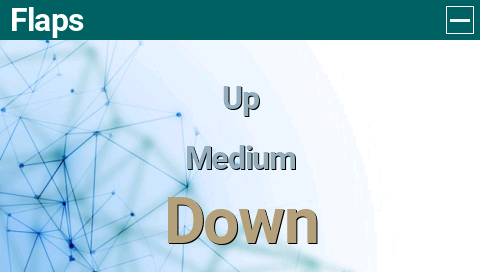
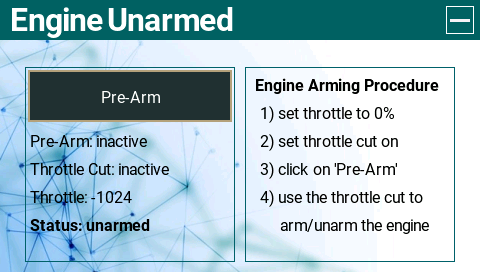
fix: move pre-existing images into folders, fix edgetx-goodies

diff --git a/README.md b/README.md
@@ -34,7 +34,7 @@ Display ExpressLRS LinkStats telemetry as well as common Betaflight and iNav fli
 - Display **min & max** indicator
 - **Post flight summary** (auto-detection end-of-flight)
 
-<a href="https://github.com/offer-shmuely/edgetx-x10-widgets/wiki/els_rf"> 
+<a href="https://github.com/offer-shmuely/edgetx-x10-widgets/wiki/els_rf">
     <img src="ASSETS/expresslrs-rf-telemetry-widget-for-fixed-wing-heli/screenshot-1.gif" width="400">
 </a>
 
@@ -53,7 +53,7 @@ An RSSI-based quad finder using ELRS/CRSF telemetry.
 - TXBatt for transmitter battery voltage and percentage
 - Battery for any battery sensor
 
-<a href="https://github.com/SpiderFI"> 
+<a href="https://github.com/SpiderFI">
     <img src="ASSETS/expresslrs-signal-battery-widgets-for-colorlcd/screenshot-1.jpg" width="400">
 </a>
 
@@ -221,9 +221,9 @@ View fullscreen images with layout information or photos, cycle through them and
 Some widgets, themes and other scripts for EdgeTX<br/>
 <a href="https://github.com/MadMonkey87/EdgeTX-Goodies">
 <img src="ASSETS/edgetx-goodies/screenshot-1.png"  width="250">
+<img src="ASSETS/edgetx-goodies/screenshot-2.png"  width="250">
 <img src="ASSETS/edgetx-goodies/screenshot-3.png"  width="250">
-<img src="ASSETS/edgetx-goodies/screenshot-5.png"  width="250">
-<img src="https://github.com/MadMonkey87/EdgeTX-Goodies/raw/main/SCREENSHOTS/screenshot_tx16s_22-08-09_19-54-00.png"  width="250">
+<img src="ASSETS/edgetx-goodies/screenshot-4.png"  width="250">
 </a>
 
 <br/>
@@ -285,13 +285,13 @@ Scripts to use with Spektrum Receivers. It has easy to install zip files version
 Nice presentation of log file on the field<br>
 no computer needed for logs anymore.
 
-<a href="https://github.com/offer-shmuely/edgetx-x10-scripts/wiki/LogViewer"> 
+<a href="https://github.com/offer-shmuely/edgetx-x10-scripts/wiki/LogViewer">
     <img src="ASSETS/log-viewer/screenshot-1.gif" width="480">
 </a>
 
 **Selecting files & columns**
 
-<a href="https://github.com/offer-shmuely/edgetx-x10-scripts/wiki/LogViewer"> 
+<a href="https://github.com/offer-shmuely/edgetx-x10-scripts/wiki/LogViewer">
     <img src="ASSETS/log-viewer/screenshot-3.png" width="200">
     <img src="ASSETS/log-viewer/screenshot-5.png" width="200">
     <img src="ASSETS/log-viewer/screenshot-7.png" width="200">
@@ -326,7 +326,7 @@ on an EdgeTX B&W or color radio.
 
 A tool for managing Log files (created by the SD Logging Special Function) on an EdgeTX B&W or color RC transmitter. Actions can be performed on all models or a selected model.
 
-> [!NOTE]  
+> [!NOTE]
 > The color version of this tool uses the LVGL widgets API, thus EdgeTX version 2.11 or later is needed to run it. However, the B&W version can be used on color radios with older versions of EdgeTX.
 
 ![LogManagerColor](ASSETS/logmanager/screenshot-1.jpg) ![LogManagerBW](ASSETS/logmanager/screenshot-3.jpg)
@@ -335,7 +335,7 @@ A tool for managing Log files (created by the SD Logging Special Function) on an
 
 These scripts provide simple logging functionality for your flights, making it easy to record and review important flight events and telemetry data.
 
-`flylog.lua`: Logs arming/disarming events, timestamps, GPS coordinates, and model name.  
+`flylog.lua`: Logs arming/disarming events, timestamps, GPS coordinates, and model name.
 `tellog.lua`: Logs detailed telemetry data at regular intervals during flight.
 
 For analyzing and visualizing the generated logs, you can use the [UAV Desk](https://uavdesk.app).
@@ -421,7 +421,7 @@ Generates a QR code of last GPS coordinates received (for black-and-white screen
 Widget to display the levels of Lipo/HV-Lipo battery with mAh used based on battery voltage from 'Cels' sensor (FLVSS)<br/>
 <a href="https://github.com/jrwieland/Battery-mAh">
 <img src="ASSETS/battery-percentage-and-mah-used/screenshot-1.png" width="400">
-<img src="ASSETS/battery-percentage-and-mah-used/screenshot-3.png" width="400">  
+<img src="ASSETS/battery-percentage-and-mah-used/screenshot-3.png" width="400">
 </a>
 
 ### [TxBatTele](https://github.com/derelict/TxBatTele)
@@ -471,9 +471,9 @@ This widget controls a so-called multiswitch inside a model. A multiswitch is a 
 This widget controls a multiswitch via the CRSF protocol (ExpressLRS): https://github.com/wimalopaan/Electronics?tab=readme-ov-file#elrs_msw (or via ACCST/AFHDS2A and SBus ).
 Multiple instances of this widget can control multiple multiswitches inside a model, upto 255 theoretically.
 
-![Multiswitch widget controls](ASSETS/multiswitch_widget_1.png)
-![Multiswitch widget function settings](ASSETS/multiswitch_widget_2.png)
-![Multiswitch widget global settings](ASSETS/multiswitch_widget_3.png)
+![Multiswitch widget controls](ASSETS/multiswitch-widget/screenshot-1.png)
+![Multiswitch widget function settings](ASSETS/multiswitch-widget/screenshot-2.png)
+![Multiswitch widget global settings](ASSETS/multiswitch-widget/screenshot-3.png)
 
 ### [Hardware extension widget](https://github.com/wimalopaan/LUA)
 
@@ -483,9 +483,9 @@ By this means it can read external controls, like upto 16 11-bit (proportional) 
 
 Ideally the firmware for the radio has PR EdgeTX/edgetx#5885, so that this widget can set the virtual controls according to the external controls.
 
-![Hardware extension widget controls](ASSETS/hardware_extension_widget_1.png)
-![Hardware extension widget settings](ASSETS/hardware_extension_widget_2.png)
-![Hardware extension widget mapping](ASSETS/hardware_extension_widget_3.png)
+![Hardware extension widget controls](ASSETS/hardware_extension_widget_(\d)\.png)
+![Hardware extension widget settings](ASSETS/hardware_extension_widget_(\d)\.png)
+![Hardware extension widget mapping](ASSETS/hardware_extension_widget_(\d)\.png)
 
 ### [Virtual controls widget](https://github.com/wimalopaan/LUA)
 
@@ -496,9 +496,9 @@ This widget can manipulate these virtual controls by means of up to 16 sliders a
 
 If no virtual controls are available (firmware / simulator without EdgeTX/edgetx#5885), it is still useful as it can also manipulate the shm variables, which serve as a data exchange between widgets and mixer-scripts.
 
-![Virtual controls widget sliders](ASSETS/virtual_controls_widget_1.png)
-![Virtual controls widget buttons](ASSETS/virtual_controls_widget_2.png)
-![Virtual controls widget settings](ASSETS/virtual_controls_widget_3.png)
+![Virtual controls widget sliders](ASSETS/virtual-controls-widget/screenshot-1.png)
+![Virtual controls widget buttons](ASSETS/virtual-controls-widget/screenshot-2.png)
+![Virtual controls widget settings](ASSETS/virtual-controls-widget/screenshot-3.png)
 
 ### [Stick Commands](https://github.com/DHaacke/Mambo-Tango)
 
@@ -508,10 +508,10 @@ Standalone Lua tool which provides a scrollable list of common stick commands fo
 
 
 ### [Battery and Connection Bars Widgets](https://github.com/calmarc/EdgeTX-Widgets)
- 
+
 Battery Voltage + LQ Display (custom Lua widget)
 
-![Screenshot Battmeter Linkmeter](https://github.com/calmarc/EdgeTX-Widgets/blob/master/images/screenshot.png)
+![Screenshot Battmeter Linkmeter](ASSETS/battery-and-connection-bars-widgets/screenshot-1.png)
 
 
 ### [Field Notes](https://github.com/iamsunilchahal/edgetx-lua-scripts-bw?tab=readme-ov-file#2-fieldnoteslua)